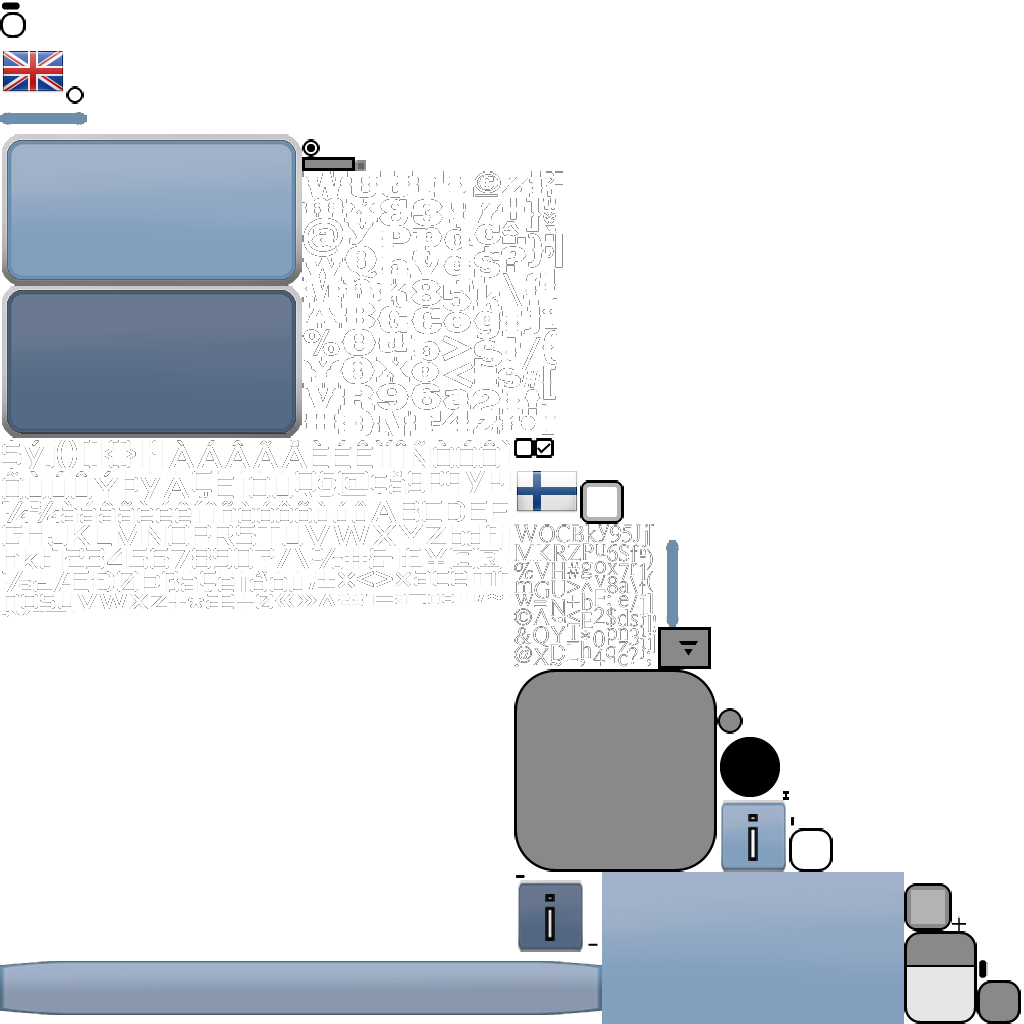
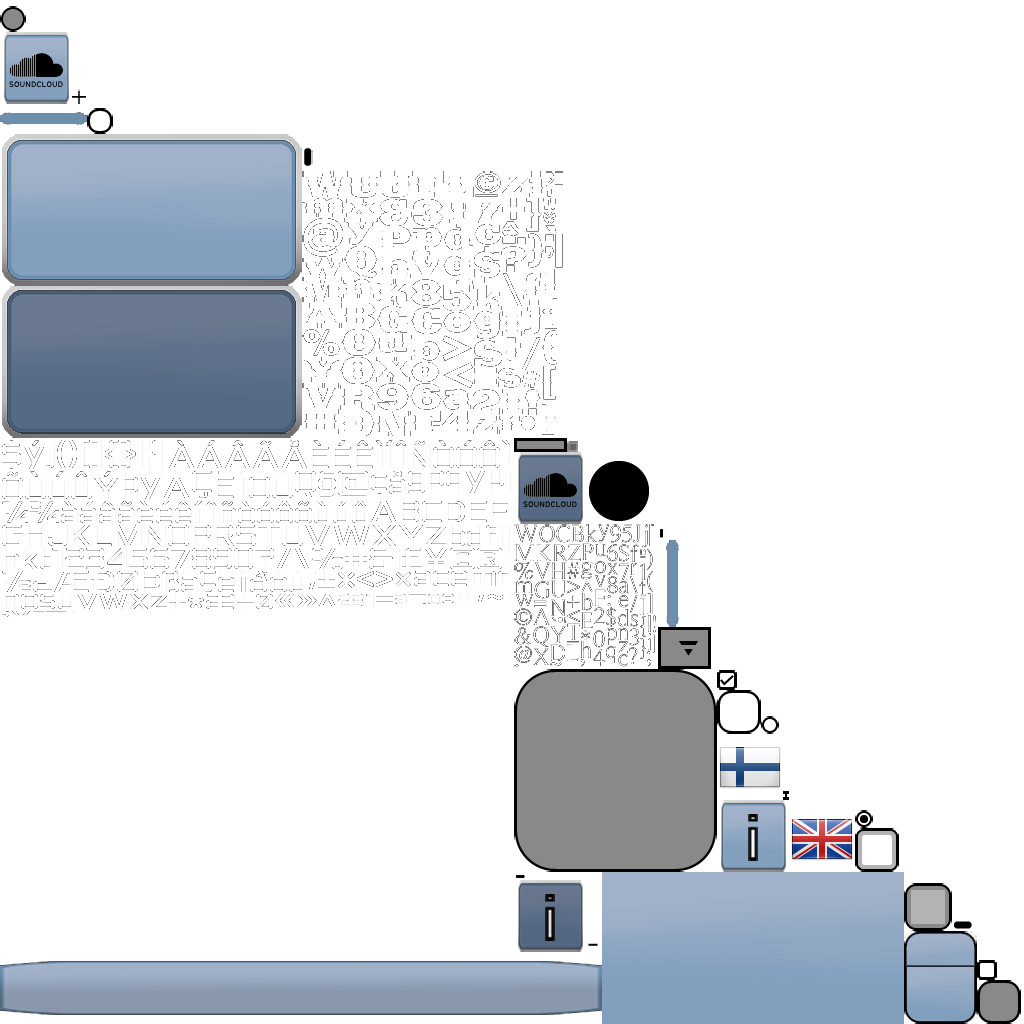
asdsadas

diff --git a/core/src/com/mygdx/audioryder/screens/MainMenuScreen.java b/core/src/com/mygdx/audioryder/screens/MainMenuScreen.java
@@ -3,6 +3,7 @@ package com.mygdx.audioryder.screens;
 import com.badlogic.gdx.Gdx;
 import com.badlogic.gdx.Preferences;
 import com.badlogic.gdx.Screen;
+import com.badlogic.gdx.audio.Sound;
 import com.badlogic.gdx.graphics.Color;
 import com.badlogic.gdx.graphics.GL20;
 import com.badlogic.gdx.graphics.Texture;
@@ -65,6 +66,8 @@ public class MainMenuScreen implements Screen {
     /** This is the settings Stage where user can change the settings of the game. */
     public Stage settingsStage;
 
+    /** This is the sound that will play when button is clicked. */
+    private Sound clickSound;
 
     /**
      * This is the Stage that is going to be rendered, so all
@@ -89,6 +92,8 @@ public class MainMenuScreen implements Screen {
 
         game.cam2D.setToOrtho(false, game.ORTHOCAM_VIEWPORT_WIDTH, game.ORTHOCAM_VIEWPORT_HEIGHT);
         game.batch.setProjectionMatrix(game.cam2D.combined);
+
+        clickSound = game.assets.get(game.SOUNDS_PATH + "click.mp3");
 
         Texture audioRyderTextTexture = new Texture(Gdx.files.internal(game.SPRITES_PATH + "audioryder.png"));
         //TextureRegion audioRyderTextRegion = new TextureRegion(audioRyderTextTexture);
@@ -129,6 +134,7 @@ public class MainMenuScreen implements Screen {
             addListener(new ClickListener() {
                @Override
                 public void clicked(InputEvent event, float x, float y) {
+                   clickSound.play();
                    setChecked(true);
                    game.currentSong = getSong();
                    System.out.println(game.currentSong.getName());
@@ -196,26 +202,28 @@ public class MainMenuScreen implements Screen {
         playButton.addListener(new ClickListener() {
             @Override
             public void clicked(InputEvent event, float x, float y) {
-                //game.loadingScreen = new LoadingScreen(game);
-                //game.setScreen(game.loadingScreen);
+                clickSound.play();
                 setCurrentStage(selectSongStage);
             }
         });
         settingsButton.addListener(new ClickListener() {
             @Override
             public void clicked(InputEvent event, float x, float y) {
+                clickSound.play();
                 setCurrentStage(settingsStage);
             }
         });
         exitButton.addListener(new ClickListener() {
             @Override
             public void clicked(InputEvent event, float x, float y) {
+                clickSound.play();
                 Gdx.app.exit();
             }
         });
         changeLanguangeButton.addListener(new ClickListener() {
             @Override
             public void clicked(InputEvent event, float x, float y) {
+                clickSound.play();
                 Preferences userSettings = Gdx.app.getPreferences("userSettings");
                 if(Properties.currentLocale == Properties.localeEN) {
                     Properties.currentLocale = Properties.localeFI;
@@ -250,6 +258,7 @@ public class MainMenuScreen implements Screen {
         nameField.setTextFieldListener(new TextField.TextFieldListener() {
             @Override
             public void keyTyped(TextField textField, char c) {
+                clickSound.play();
                 UserSettings.playerName = nameField.getText();
                 UserSettings.savePlayerSettings();
             }
@@ -281,6 +290,7 @@ public class MainMenuScreen implements Screen {
         infoButton.addListener(new ClickListener() {
             @Override
             public void clicked(InputEvent event, float x, float y) {
+                clickSound.play();
                 setCurrentStage(infoStage);
             }
         });
@@ -302,12 +312,10 @@ public class MainMenuScreen implements Screen {
     private void setupSelectSongStage() {
         selectSongStage = new Stage(game.viewport, game.batch);
 
-        //final TextButton returnButton = new TextButton(Properties.returnText, testSkin);
         final TextButton playButtonn = new TextButton(Properties.playText, game.skin);
         HorizontalGroup playAndReturn = new HorizontalGroup();
         playAndReturn.space(50f);
-        final TextButton returnButton = new MenuButton(Properties.returnText, game.skin);
-        playAndReturn.addActor(returnButton);
+        playAndReturn.addActor(createReturnButton(mainStage, 0f, 0f));
         playAndReturn.addActor(playButtonn);
 
         ButtonGroup songButtonGroup = new ButtonGroup();
@@ -342,15 +350,9 @@ public class MainMenuScreen implements Screen {
         playButtonn.addListener(new ClickListener() {
             @Override
             public void clicked(InputEvent event, float x, float y) {
+                clickSound.play();
                 game.levelLoadingScreen = new LevelLoadingScreen(game, game.currentSong);
                 game.setScreen(game.levelLoadingScreen);
-            }
-        });
-
-        returnButton.addListener(new ClickListener() {
-            @Override
-            public void clicked(InputEvent event, float x, float y) {
-                setCurrentStage(mainStage);
             }
         });
 
@@ -422,15 +424,12 @@ public class MainMenuScreen implements Screen {
         upSensText = new Label(UserSettings.sensitivityUp + "", game.skin, "xolonium", Color.WHITE);
         upSensText.setPosition(360f,500f);
 
-
-
         settingsStage.addActor(sensitivityText);
         settingsStage.addActor(sensitivityText2);
         settingsStage.addActor(leftSensText);
         settingsStage.addActor(downSensText);
         settingsStage.addActor(rightSensText);
         settingsStage.addActor(upSensText);
-
 
         /* Add calibrate button: */
         TextButton calibrateButton = new TextButton(Properties.calibrateText, game.skin);
@@ -440,6 +439,7 @@ public class MainMenuScreen implements Screen {
         calibrateButton.addListener(new ClickListener(){
             @Override
             public void clicked(InputEvent event, float x, float y) {
+                clickSound.play();
                 super.clicked(event, x, y);
                 UserSettings.xCalib = Gdx.input.getAccelerometerY();
                 UserSettings.yCalib = Gdx.input.getAccelerometerZ();
@@ -498,8 +498,8 @@ public class MainMenuScreen implements Screen {
         returnButton.addListener(new ClickListener() {
             @Override
             public void clicked(InputEvent event, float x, float y) {
+                clickSound.play();
                 UserSettings.savePlayerSettings();
-
 
                 if(game.GAME_IS_ON) {
                     game.setScreen(game.pauseScreen);
@@ -533,12 +533,14 @@ public class MainMenuScreen implements Screen {
         artistsButton.addListener(new ClickListener() {
             @Override
             public void clicked(InputEvent event, float x, float y) {
+                clickSound.play();
                 setCurrentStage(infoArtistsStage);
             }
         });
         guideButton.addListener(new ClickListener() {
             @Override
             public void clicked(InputEvent event, float x, float y) {
+                clickSound.play();
                 setCurrentStage(guideStage);
             }
         });
@@ -598,15 +600,17 @@ public class MainMenuScreen implements Screen {
      */
     private Window createArtistWindow(String artistName, final String soundCloudURL) {
         Window outputWindow = new Window(artistName, game.skin);
+        outputWindow.getTitleLabel().setAlignment(2);
         outputWindow.setWidth(200f);
         outputWindow.setMovable(false);
 
-        ImageButton tempButton = new ImageButton(game.skin, "info");
+        ImageButton tempButton = new ImageButton(game.skin, "soundcloud");
         tempButton.setPosition(outputWindow.getWidth() / 2 - tempButton.getWidth() / 2, outputWindow.getHeight() / 2 - tempButton.getWidth() / 2 - 10f);
 
         tempButton.addListener(new ClickListener() {
             @Override
             public void clicked(InputEvent event, float x , float y) {
+                clickSound.play();
                 Gdx.net.openURI(soundCloudURL);
             }
         });
@@ -670,6 +674,7 @@ public class MainMenuScreen implements Screen {
         outputButton.addListener(new ClickListener() {
             @Override
             public void clicked(InputEvent event, float x, float y) {
+                clickSound.play();
                 setCurrentStage(goToThisStage);
             }
         });

diff --git a/core/src/com/mygdx/audioryder/screens/GameScreen.java b/core/src/com/mygdx/audioryder/screens/GameScreen.java
@@ -95,7 +95,7 @@ public class GameScreen implements Screen {
      * This Model is the road or ground
      * which the SpaceShip will fly on.
      */
-    private Model groundModel;
+    public Model groundModel;
 
     /**
      * This Model is the sky or space in the background
@@ -143,25 +143,19 @@ public class GameScreen implements Screen {
             cam3D.far = 1000.0f;
             modelBatch = new ModelBatch();
 
-            Model tempModel;
+            Model tempModel = game.assets.get(AudioRyder.MODELS_PATH + "Spaceship.g3db");
 
-            tempModel = game.assets.get(AudioRyder.MODELS_PATH + "Spaceship.g3db");
             spaceShip = new SpaceShip(game, tempModel);
 
-            tempModel = game.assets.get(AudioRyder.MODELS_PATH + "Pyramid_green.g3db");
-            pyramids[0] = tempModel;
+            pyramids[0] = game.assets.get(AudioRyder.MODELS_PATH + "Pyramid_green.g3db");
 
-            tempModel = game.assets.get(AudioRyder.MODELS_PATH + "Pyramid_yellow.g3db");
-            pyramids[1] = tempModel;
+            pyramids[1] = game.assets.get(AudioRyder.MODELS_PATH + "Pyramid_yellow.g3db");
 
-            tempModel = game.assets.get(AudioRyder.MODELS_PATH + "Pyramid_red.g3db");
-            pyramids[2] = tempModel;
+            pyramids[2] = game.assets.get(AudioRyder.MODELS_PATH + "Pyramid_red.g3db");
 
-            tempModel = game.assets.get(AudioRyder.MODELS_PATH + "TrackRE.g3db", Model.class);
-            groundModel = tempModel;
+            groundModel = game.assets.get(AudioRyder.MODELS_PATH + "TrackRE.g3db", Model.class);
 
-            tempModel = game.assets.get(AudioRyder.MODELS_PATH + "Skydome_WIP.g3db", Model.class);
-            skyModel = tempModel;
+            skyModel = game.assets.get(AudioRyder.MODELS_PATH + "Skydome_WIP.g3db", Model.class);
             skydome = new Skydome(game, skyModel);
 
             for(int i = 0; i < MathUtils.random(3, 5); i++) {
@@ -246,7 +240,7 @@ public class GameScreen implements Screen {
     private void checkSongStatus() {
         if (!(SongHandler.gameMusic.isPlaying())) {
             game.GAME_IS_ON = false;
-            dispose();
+            //dispose();
             SongHandler.gameMusic.stop();
             game.endScreen = new EndScreen(game,game.score, game.currentSong);
             game.setScreen(game.endScreen);
@@ -369,13 +363,7 @@ public class GameScreen implements Screen {
     @Override
     public void dispose() {
         modelBatch.dispose();
-        spaceShip.dispose();
-        groundModel.dispose();
-        skyModel.dispose();
-
-        for(int i = 0; i < pyramids.length-1; i++) {
-            pyramids[i].dispose();
-        }
+        gameOverlay.dispose();
     }
 
 
@@ -392,8 +380,6 @@ public class GameScreen implements Screen {
         game.font.draw(game.batch, "Y: " + Gdx.input.getAccelerometerY(), 750, 250);
         game.font.draw(game.batch, "Z: " + Gdx.input.getAccelerometerZ(), 750, 270);
         game.font.draw(game.batch, "FPS: " + Gdx.graphics.getFramesPerSecond(), 750, 290);
-
-
         game.batch.end();
     }
 }

diff --git a/core/src/com/mygdx/audioryder/objects/GameObject.java b/core/src/com/mygdx/audioryder/objects/GameObject.java
@@ -22,9 +22,17 @@ import com.mygdx.audioryder.AudioRyder;
  */
 public abstract class GameObject {
 
+    /** Instance of the game. */
     public AudioRyder game;
 
+    /**
+     * This boolean checks if the object is active.
+     * If false, the object will not be rendered and will be
+     * removed gameObjects ArrayList.
+     */
     private boolean isActive;
+
+    /* X, Y, Z coordinates */
     private float x, y, z;
 
     public GameObject(AudioRyder game) {
@@ -44,6 +52,13 @@ public abstract class GameObject {
      */
     public abstract void renderAndUpdate(ModelBatch modelBatch, Environment environment);
 
+    /**
+     * This method will set the position of the GameObject.
+     *
+     * @param x X position of the object.
+     * @param y Y position of the object.
+     * @param z Z position of the object.
+     */
     public void setPosition(float x, float y, float z) {
         setX(x);
         setY(y);

diff --git a/core/src/com/mygdx/audioryder/AudioRyder.java b/core/src/com/mygdx/audioryder/AudioRyder.java
@@ -61,10 +61,16 @@ public class AudioRyder extends Game {
 	public static final int WINDOW_HEIGHT = 600;
 
 	public OrthographicCamera cam2D;
+
+	/** Width of the OrthographicCamera viewport. */
 	public static final float ORTHOCAM_VIEWPORT_WIDTH = WINDOW_WIDTH;
+
+    /** Height of the OrthographicCamera viewport. */
 	public static final float ORTHOCAM_VIEWPORT_HEIGHT = WINDOW_HEIGHT;
 
+	/* Viewport that is used by Scene2D Stages. */
 	public Viewport viewport;
+
 
 	public SpriteBatch batch;
 	public BitmapFont font;
@@ -174,8 +180,6 @@ public class AudioRyder extends Game {
 		loadingScreen = new LoadingScreen(this);
 		setScreen(loadingScreen);
 	}
-
-
 
     @Override
 	public void render () {

diff --git a/core/src/com/mygdx/audioryder/screens/LoadingScreen.java b/core/src/com/mygdx/audioryder/screens/LoadingScreen.java
@@ -130,7 +130,7 @@ public class LoadingScreen implements Screen {
 
         /* Sounds */
         game.assets.load(AudioRyder.SOUNDS_PATH + "notehit.wav", Sound.class);
-
+        game.assets.load(AudioRyder.SOUNDS_PATH + "click.mp3", Sound.class);
     }
 
     /**

diff --git a/core/src/com/mygdx/audioryder/objects/SpaceShip.java b/core/src/com/mygdx/audioryder/objects/SpaceShip.java
@@ -146,10 +146,6 @@ public class SpaceShip extends GameObject {
         }
     }
 
-    public void dispose() {
-
-    }
-
     public ModelInstance getSpaceShipModel() {
         return spaceShipModel;
     }
